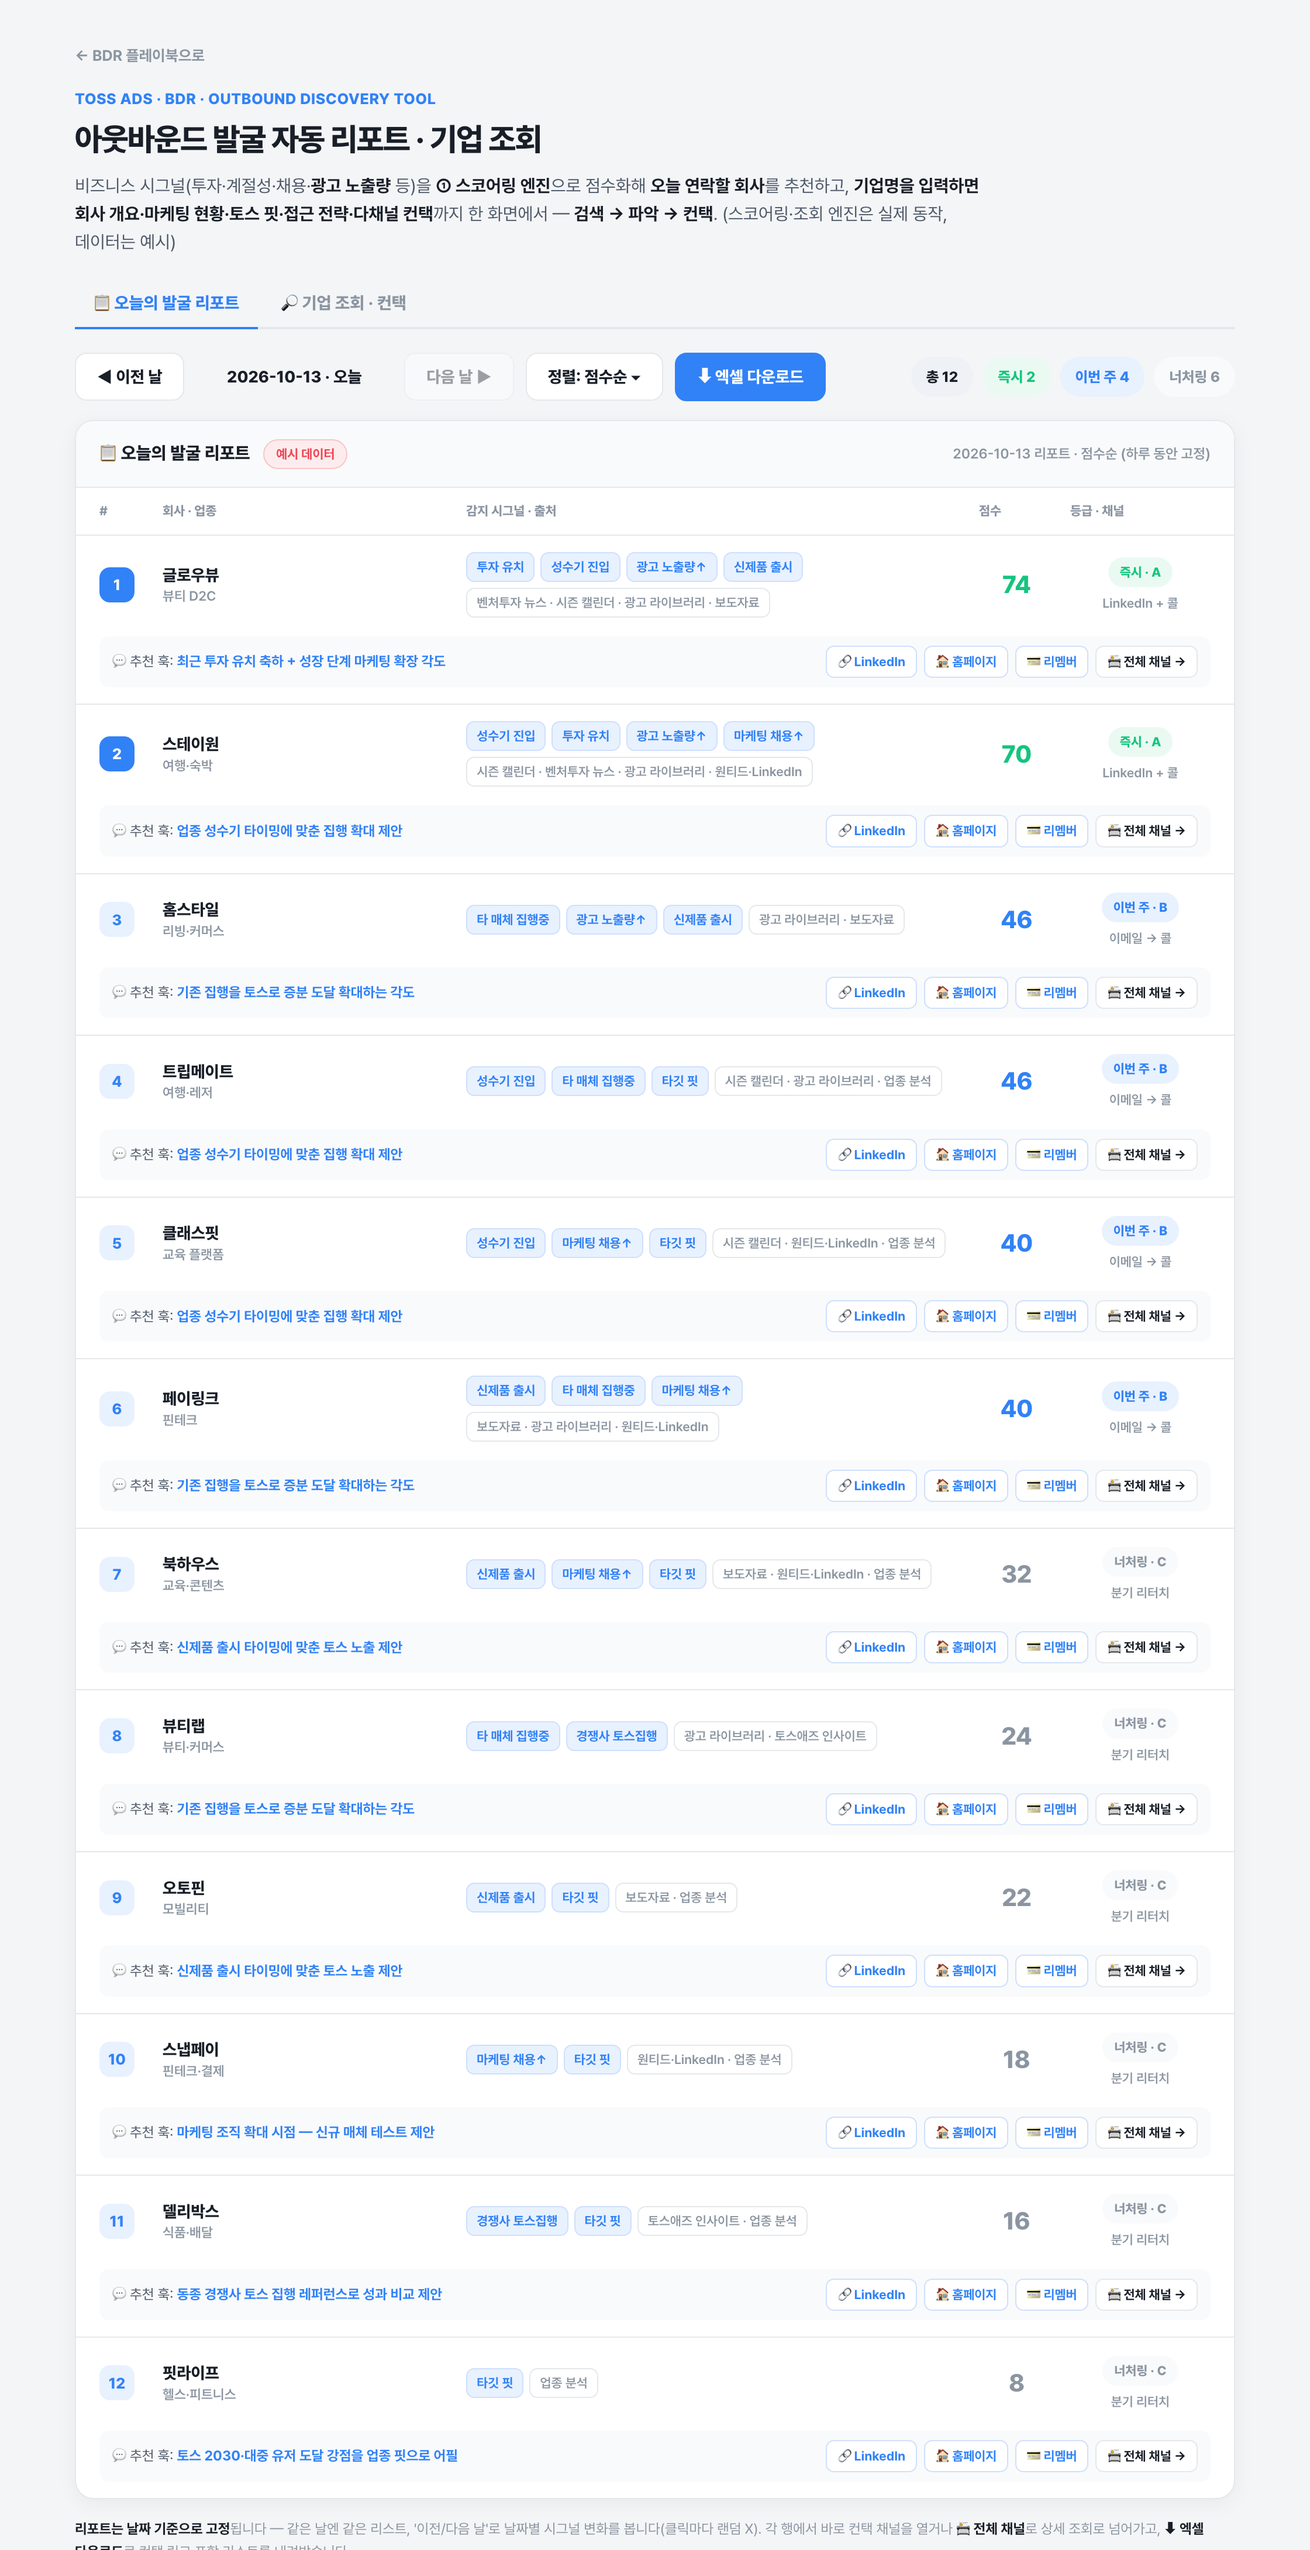
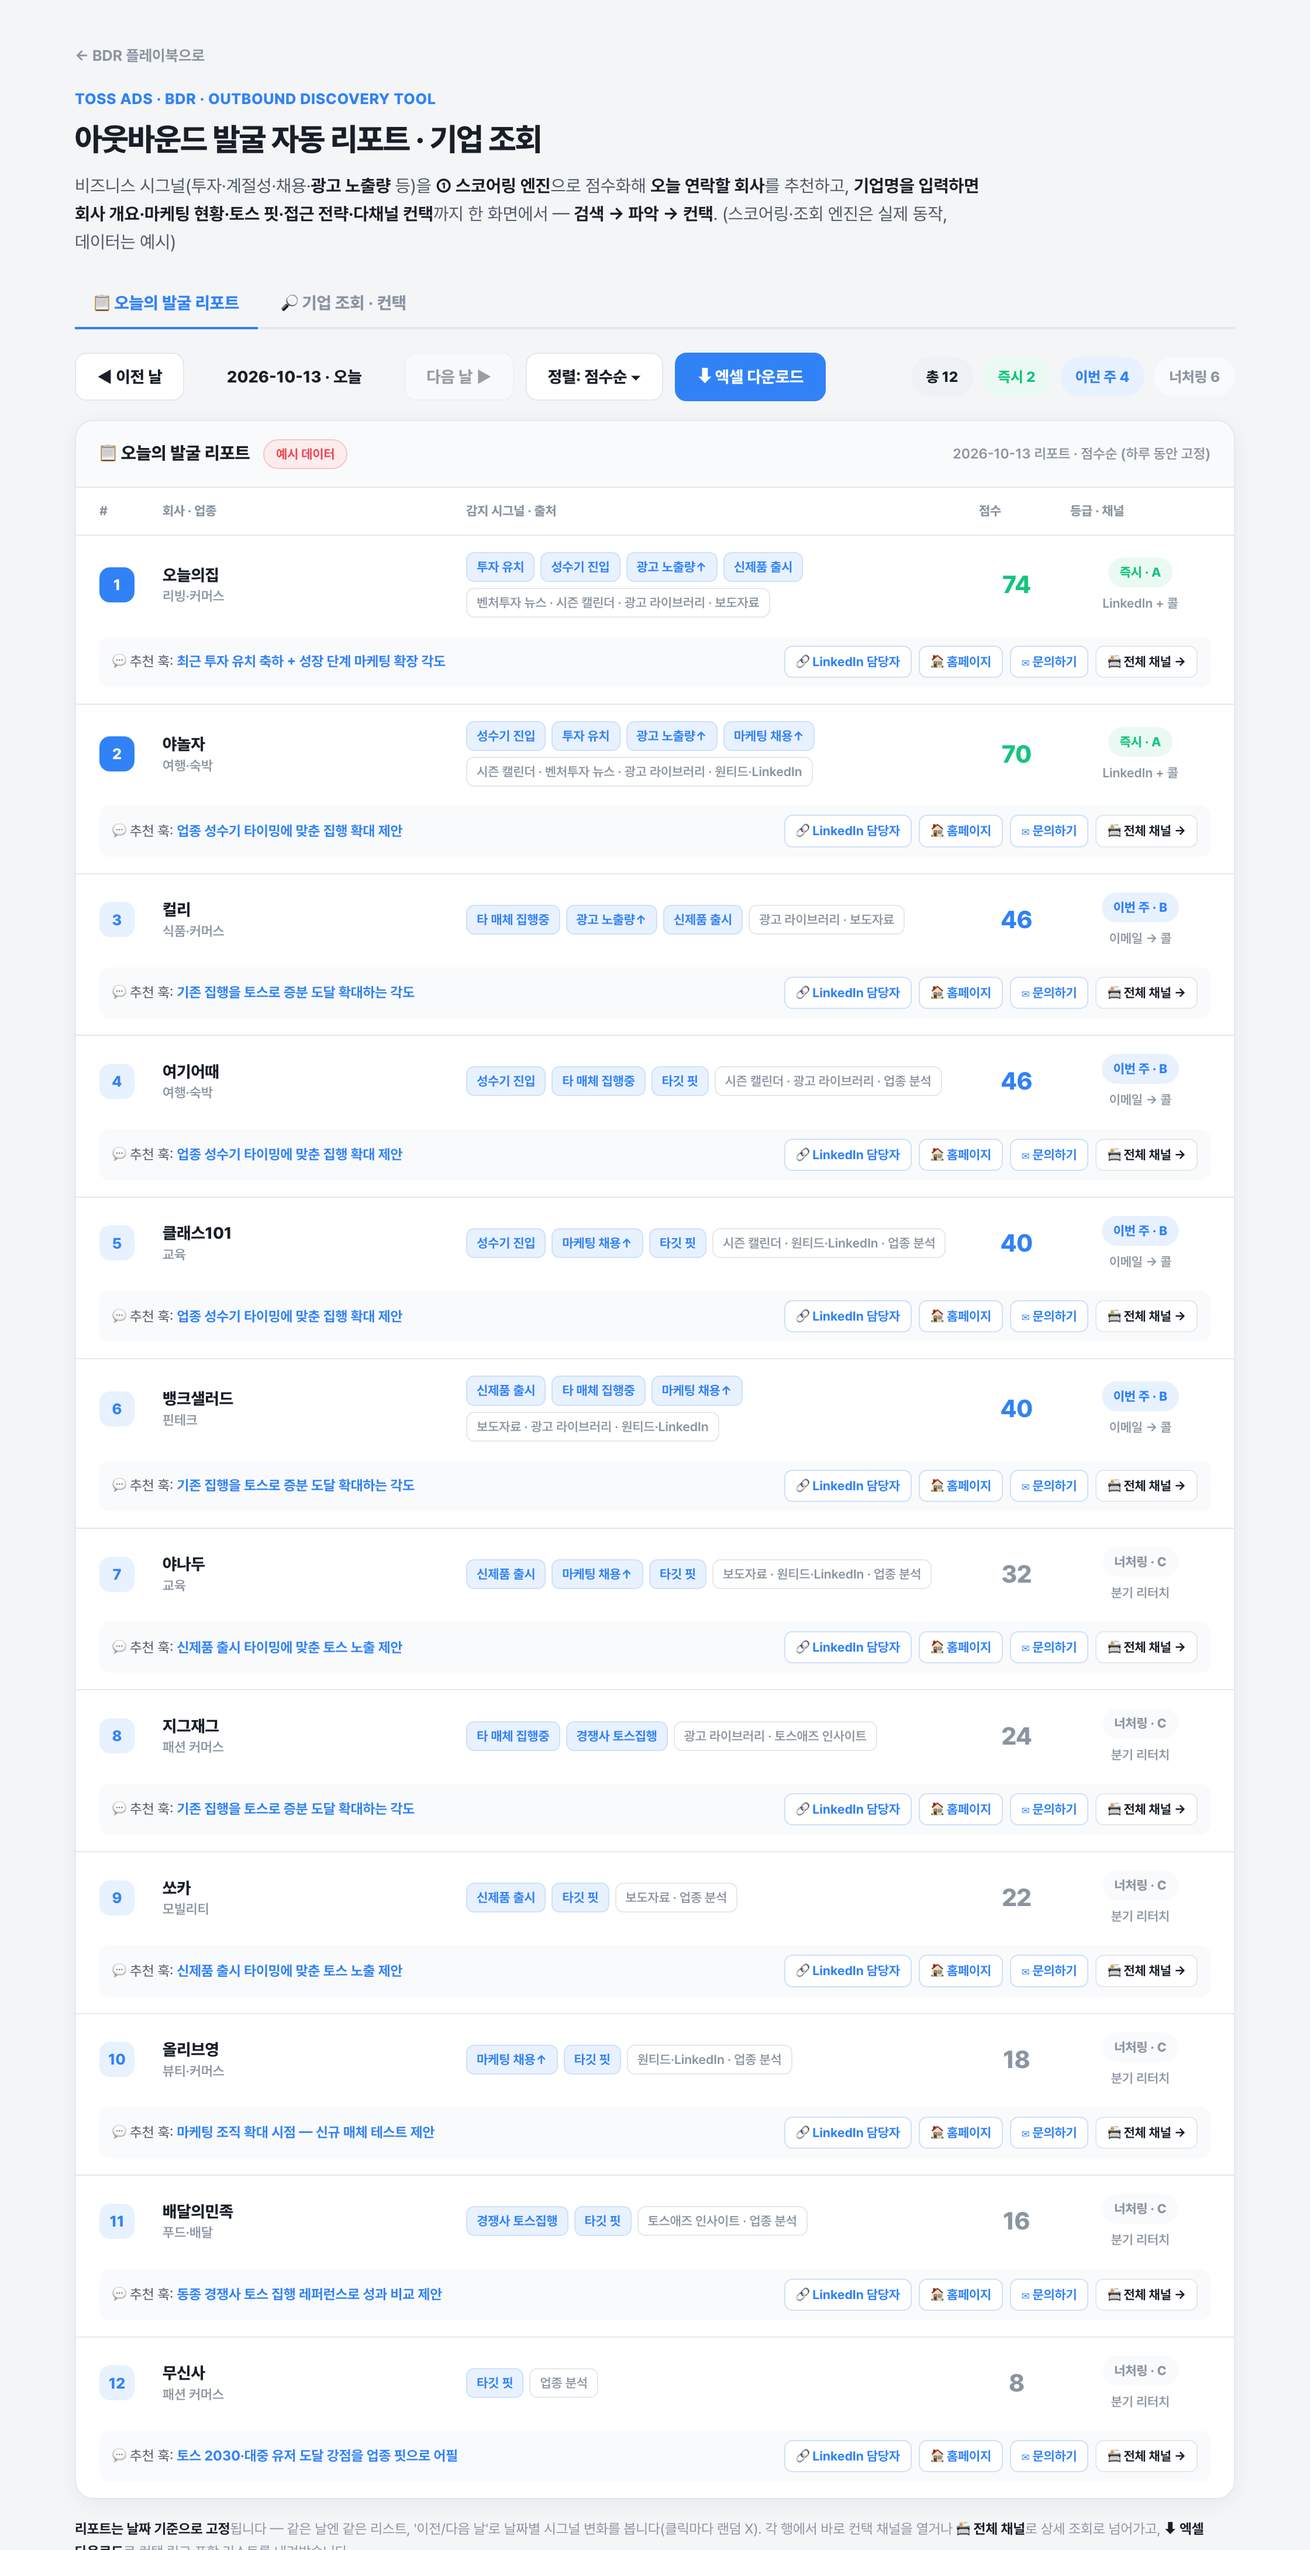
feat(tossbdr): 예시를 실제 기업으로 교체 + 홈페이지 버튼 실제 도메인 직결 + 문의하기 추가
- 가상 회사 → 실제 기업 12곳(무신사·오늘의집·컬리·야놀자·여기어때·뱅크샐러드·쏘카·클래스101·야나두·지그재그·올리브영·배민)
- 🏠 홈페이지 버튼: 검색이 아니라 실제 도메인으로 바로 이동. ✉ 문의하기(고객센터) 링크 추가
- 담당자 컨택 = LinkedIn 담당자·회사·홈페이지·문의·리멤버·콜드메일 / 채용 = 원티드·사람인·잡코리아·잡플래닛 등 — 실제 기업이라 모두 실결과 연결
- 안내문 정정: 회사·링크는 실제, 시그널·점수는 시연용 가상

diff --git a/tossbdr/discovery.html b/tossbdr/discovery.html
@@ -141,21 +141,21 @@
     </div>
     <p class="note">
       <b>리포트는 날짜 기준으로 고정</b>됩니다 — 같은 날엔 같은 리스트, '이전/다음 날'로 날짜별 시그널 변화를 봅니다(클릭마다 랜덤 X). 각 행에서 바로 컨택 채널을 열거나 <b>📇 전체 채널</b>로 상세 조회로 넘어가고, <b>⬇ 엑셀 다운로드</b>로 컨택 링크 포함 리스트를 내려받습니다.<br>
-      <b>실데이터 연동</b> — 뉴스·LinkedIn·광고 라이브러리를 매일 수집해 시그널을 채우면 실무 리포트가 됩니다(수집은 백엔드 필요). 회사명·점수는 로직 시연용 <b>예시(가상)</b>이며, 컨택·채용 버튼은 회사명 기반 실시간 검색으로 연결됩니다.
+      <b>실데이터 연동</b> — 뉴스·LinkedIn·광고 라이브러리를 매일 수집해 시그널을 채우면 실무 리포트가 됩니다(수집은 백엔드 필요). 회사는 <b>실제 기업</b>이라 홈페이지·문의·컨택 버튼이 진짜로 연결되지만, <b>시그널·점수는 툴 로직 시연용 가상 시나리오</b>이며 해당 기업의 실제 상황이 아닙니다.
     </p>
   </div>
 
   <!-- 탭 2 -->
   <div class="panel" id="panel-lookup" style="display:none;">
     <div class="search">
-      <input id="lookupInput" placeholder="연락할 기업명을 입력하세요 (예: 글로우뷰, 또는 실제 회사명)" autocomplete="off" />
+      <input id="lookupInput" placeholder="연락할 기업명을 입력하세요 (예: 무신사, 또는 아무 실제 회사명)" autocomplete="off" />
       <button class="btn" id="lookupBtn">조회</button>
     </div>
     <div class="chips" id="lookupChips"></div>
     <div id="briefResult"></div>
     <p class="note">
       <b>무엇을 보여주나</b> — BDR이 콜 전에 필요한 <b>회사 개요·마케팅 현황(현재 매체·추정 예산·타깃)·비즈니스 시그널·토스 Ads 핏·접근 전략·콜 전 체크리스트</b>를 한 화면에 정리하고, <b>담당자 컨택(LinkedIn·리멤버·홈페이지·구글·네이버)</b>과 <b>마케팅 채용·조직 확인(원티드·사람인·잡코리아·잡플래닛·LinkedIn Jobs·채용 페이지)</b> 채널을 전부 실제 검색 링크로 연결합니다.<br>
-      등록 예시 기업은 리포트와 동일 프로필을, 그 외 기업명은 <b>이름 기반 결정론 프로필</b>을 보여줍니다(실데이터 연동 시 실제 값으로 대체). 개요·예산·매체는 <b>추정 예시</b>이며, 컨택·채용·홈페이지 버튼은 실제 검색으로 동작합니다.
+      예시 12개 기업은 <b>실제 기업</b>이라 <b>홈페이지는 실제 도메인으로 바로 이동</b>하고 문의·LinkedIn·채용 버튼도 실제로 연결됩니다. 그 외 기업명도 입력하면 조회됩니다(홈페이지는 공식 사이트 검색으로 연결). <b>시그널·점수·개요·예산·매체는 툴 로직 시연용 가상 추정</b>이며 해당 기업의 실제 상황이 아닙니다.
     </p>
   </div>
 </div>
@@ -172,26 +172,36 @@
     comp   : {w:8,  l:'경쟁사 토스집행', src:'토스애즈 인사이트',   hook:'동종 경쟁사 토스 집행 레퍼런스로 성과 비교 제안'}
   };
   var KEYS = Object.keys(SIG);
-  var BASE = [
-    {n:'글로우뷰', i:'뷰티 D2C'},   {n:'클래스핏', i:'교육 플랫폼'}, {n:'트립메이트', i:'여행·레저'},
-    {n:'페이링크', i:'핀테크'},     {n:'델리박스', i:'식품·배달'},   {n:'핏라이프', i:'헬스·피트니스'},
-    {n:'홈스타일', i:'리빙·커머스'}, {n:'오토핀', i:'모빌리티'},     {n:'스테이원', i:'여행·숙박'},
-    {n:'북하우스', i:'교육·콘텐츠'}, {n:'뷰티랩', i:'뷰티·커머스'},   {n:'스냅페이', i:'핀테크·결제'}
-  ];
+  // 실제 기업 + 실제 홈페이지 (컨택·문의 링크가 진짜로 연결되도록)
+  var COMPANY = {
+    '무신사':    {i:'패션 커머스',  hp:'https://www.musinsa.com'},
+    '오늘의집':  {i:'리빙·커머스',  hp:'https://ohou.se'},
+    '컬리':      {i:'식품·커머스',  hp:'https://www.kurly.com'},
+    '야놀자':    {i:'여행·숙박',    hp:'https://www.yanolja.com'},
+    '여기어때':  {i:'여행·숙박',    hp:'https://www.yeogi.com'},
+    '뱅크샐러드':{i:'핀테크',       hp:'https://www.banksalad.com'},
+    '쏘카':      {i:'모빌리티',     hp:'https://www.socar.kr'},
+    '클래스101': {i:'교육',         hp:'https://class101.net'},
+    '야나두':    {i:'교육',         hp:'https://www.yanadoo.co.kr'},
+    '지그재그':  {i:'패션 커머스',  hp:'https://zigzag.kr'},
+    '올리브영':  {i:'뷰티·커머스',  hp:'https://www.oliveyoung.co.kr'},
+    '배달의민족':{i:'푸드·배달',    hp:'https://www.baemin.com'}
+  };
+  var BASE = Object.keys(COMPANY).map(function(n){ return {n:n, i:COMPANY[n].i}; });
   var INITIAL = [
-    {n:'글로우뷰', i:'뷰티 D2C',      s:['invest','season','adsurge','launch']},
-    {n:'스테이원', i:'여행·숙박',     s:['season','invest','adsurge','hiring']},
-    {n:'홈스타일', i:'리빙·커머스',   s:['running','adsurge','launch']},
-    {n:'트립메이트', i:'여행·레저',   s:['season','running','fit']},
-    {n:'클래스핏', i:'교육 플랫폼',   s:['season','hiring','fit']},
-    {n:'페이링크', i:'핀테크',        s:['launch','running','hiring']},
-    {n:'북하우스', i:'교육·콘텐츠',   s:['launch','hiring','fit']},
-    {n:'뷰티랩',  i:'뷰티·커머스',    s:['running','comp']},
-    {n:'오토핀',  i:'모빌리티',       s:['launch','fit']},
-    {n:'스냅페이', i:'핀테크·결제',   s:['hiring','fit']},
-    {n:'델리박스', i:'식품·배달',     s:['comp','fit']},
-    {n:'핏라이프', i:'헬스·피트니스', s:['fit']}
-  ];
+    {n:'오늘의집',   s:['invest','season','adsurge','launch']},
+    {n:'야놀자',     s:['season','invest','adsurge','hiring']},
+    {n:'컬리',       s:['running','adsurge','launch']},
+    {n:'여기어때',   s:['season','running','fit']},
+    {n:'클래스101',  s:['season','hiring','fit']},
+    {n:'뱅크샐러드', s:['launch','running','hiring']},
+    {n:'야나두',     s:['launch','hiring','fit']},
+    {n:'지그재그',   s:['running','comp']},
+    {n:'쏘카',       s:['launch','fit']},
+    {n:'올리브영',   s:['hiring','fit']},
+    {n:'배달의민족', s:['comp','fit']},
+    {n:'무신사',     s:['fit']}
+  ].map(function(x){ return {n:x.n, i:COMPANY[x.n].i, s:x.s}; });
 
   var offset = 0, sortMode = 'score', curData = [], lastRows = [];
 
@@ -214,8 +224,11 @@
   function G(q){ return 'https://www.google.com/search?q=' + enc(q); }
   var LINK = {
     linkedin : function(n){ return 'https://www.linkedin.com/search/results/people/?keywords=' + enc(n + ' 마케팅'); },
+    liCompany: function(n){ return 'https://www.linkedin.com/search/results/companies/?keywords=' + enc(n); },
     remember : function(n){ return G(n + ' 마케팅 담당자 리멤버'); },
-    home     : function(n){ return G(n + ' 공식 홈페이지'); },
+    home     : function(n){ return (COMPANY[n] && COMPANY[n].hp) ? COMPANY[n].hp : G(n + ' 공식 홈페이지'); },
+    inquiry  : function(n){ return (COMPANY[n] && COMPANY[n].hp) ? G(n + ' 고객센터 문의하기') : G(n + ' 문의하기 고객센터'); },
+    hasHome  : function(n){ return !!(COMPANY[n] && COMPANY[n].hp); },
     google   : function(n,i){ return G(n + ' ' + (i||'') + ' 마케팅 담당자'); },
     naver    : function(n){ return 'https://search.naver.com/search.naver?query=' + enc(n + ' 마케팅'); },
     wanted   : function(n){ return 'https://www.wanted.co.kr/search?query=' + enc(n); },
@@ -258,9 +271,9 @@
         '<div class="rend"><span class="rgr '+g.c+'">'+g.g+'</span><span class="rch">'+g.ch+'</span></div>'+
         '<div class="hookrow"><span>💬 추천 훅: <b>'+SIG[top].hook+'</b></span>'+
           '<span class="cbtns">'+
-            '<a class="cbtn" href="'+LINK.linkedin(n)+'" target="_blank" rel="noopener">🔗 LinkedIn</a>'+
+            '<a class="cbtn" href="'+LINK.linkedin(n)+'" target="_blank" rel="noopener">🔗 LinkedIn 담당자</a>'+
             '<a class="cbtn" href="'+LINK.home(n)+'" target="_blank" rel="noopener">🏠 홈페이지</a>'+
-            '<a class="cbtn" href="'+LINK.remember(n)+'" target="_blank" rel="noopener">💳 리멤버</a>'+
+            '<a class="cbtn" href="'+LINK.inquiry(n)+'" target="_blank" rel="noopener">✉ 문의하기</a>'+
             '<a class="cbtn more" href="?company='+enc(n)+'#lookup">📇 전체 채널 →</a>'+
           '</span>'+
         '</div>'+
@@ -355,7 +368,8 @@
       '<div class="brief">'+
         '<div class="bh">'+
           '<div class="bhl"><div class="bname">'+name+'<small>'+p.ind+'</small></div>'+
-            '<div class="bsum">'+p.ind+' · '+p.target+' 타깃 · '+p.stage+' · 토스 핏 '+(s>=60?'<b style="color:var(--green)">높음</b>':s>=40?'<b style="color:var(--blue)">보통</b>':'검토')+'</div></div>'+
+            '<div class="bsum">'+p.ind+' · '+p.target+' 타깃 · '+p.stage+' · 토스 핏 '+(s>=60?'<b style="color:var(--green)">높음</b>':s>=40?'<b style="color:var(--blue)">보통</b>':'검토')+'</div>'+
+            '<div style="margin-top:8px;"><a href="'+LINK.home(name)+'" target="_blank" rel="noopener" style="font-size:13px;font-weight:800;color:var(--blue);text-decoration:none;">🏠 '+(LINK.hasHome(name)?COMPANY[name].hp.replace(/^https?:\/\//,''):'공식 홈페이지 검색')+' →</a></div></div>'+
           '<div class="bscore"><span class="n" style="color:'+g.col+'">'+s+'</span><span class="gr '+g.c+'">'+g.g+'</span></div>'+
         '</div>'+
         '<div class="bbody">'+
@@ -387,8 +401,8 @@
           '</ul>'+
           '<div class="bsec">👤 담당자 컨택 포인트</div>'+
           '<div class="chgroup"><div class="chbtns">'+
-            ch(LINK.linkedin(name),'🔗 LinkedIn 담당자',true)+ch(LINK.remember(name),'💳 리멤버')+ch(LINK.home(name),'🏠 홈페이지')+
-            ch(LINK.google(name,p.ind),'🔎 구글')+ch(LINK.naver(name),'🟢 네이버')+ch(LINK.mail(name,SIG[top].hook),'✉ 콜드메일 초안')+
+            ch(LINK.linkedin(name),'🔗 LinkedIn 담당자',true)+ch(LINK.home(name),(LINK.hasHome(name)?'🏠 홈페이지':'🏠 홈페이지 검색'))+ch(LINK.inquiry(name),'✉ 문의하기')+
+            ch(LINK.remember(name),'💳 리멤버')+ch(LINK.liCompany(name),'🏢 LinkedIn 회사')+ch(LINK.mail(name,SIG[top].hook),'📧 콜드메일 초안')+
           '</div></div>'+
           '<div class="bsec">📈 마케팅 채용 · 조직 확인 (채용 시그널 검증)</div>'+
           '<div class="chgroup"><div class="chbtns">'+
@@ -422,7 +436,7 @@
   (function(){
     var box = document.getElementById('lookupChips');
     box.innerHTML = '<span style="font-size:12px;color:var(--muted);font-weight:700;align-self:center;margin-right:2px;">예시:</span>';
-    ['글로우뷰','스테이원','클래스핏','트립메이트','페이링크'].forEach(function(n){
+    ['무신사','오늘의집','야놀자','컬리','쏘카'].forEach(function(n){
       var b=document.createElement('button'); b.textContent=n;
       b.addEventListener('click', function(){ inp.value=n; renderBrief(n); });
       box.appendChild(b);
@@ -432,7 +446,7 @@
   show();
   var qc = new URLSearchParams(location.search).get('company');
   if(qc){ inp.value = qc; renderBrief(qc); activate('lookup'); }
-  else { renderBrief('글로우뷰'); if(location.hash==='#lookup') activate('lookup'); }
+  else { renderBrief('무신사'); if(location.hash==='#lookup') activate('lookup'); }
 </script>
 </body>
 </html>

diff --git a/tossbdr/bdr.html b/tossbdr/bdr.html
@@ -674,7 +674,7 @@
       <a class="demobtn" href="discovery.html#lookup" style="margin-top:0;background:var(--blue);">🔎 기업 조회 열기</a>
       <span class="note-sm" style="margin:0;">위는 <b>직접 만든 실제 툴의 구동 화면</b>입니다 — <b>검색 → 파악 → 컨택</b>을 한 화면에서. 날짜별로 리포트가 고정되고, 기업명으로 실시간 조회됩니다.</span>
     </div>
-    <p class="note-sm" style="color:var(--red);font-weight:600;margin-top:10px;">※ 회사명·점수는 로직 시연용 <b>예시(가상)</b>이며, 실데이터 연동(뉴스·LinkedIn·Meta/Google 광고 라이브러리 수집)은 백엔드가 필요합니다. 스코어링·조회·컨택 엔진은 실제로 동작합니다.</p>
+    <p class="note-sm" style="color:var(--red);font-weight:600;margin-top:10px;">※ 예시는 <b>실제 기업</b>이라 홈페이지·문의·LinkedIn·채용 버튼이 진짜로 연결됩니다. 단 <b>시그널·점수·추정 정보는 툴 로직 시연용 가상 시나리오</b>(해당 기업 실제 상황 아님)이며, 실데이터 자동 수집은 백엔드가 필요합니다.</p>
 
     <h3 style="font-size:16px;font-weight:800;margin:24px 0 8px;">이 리포트가 하는 일</h3>
     <div class="dcards">
